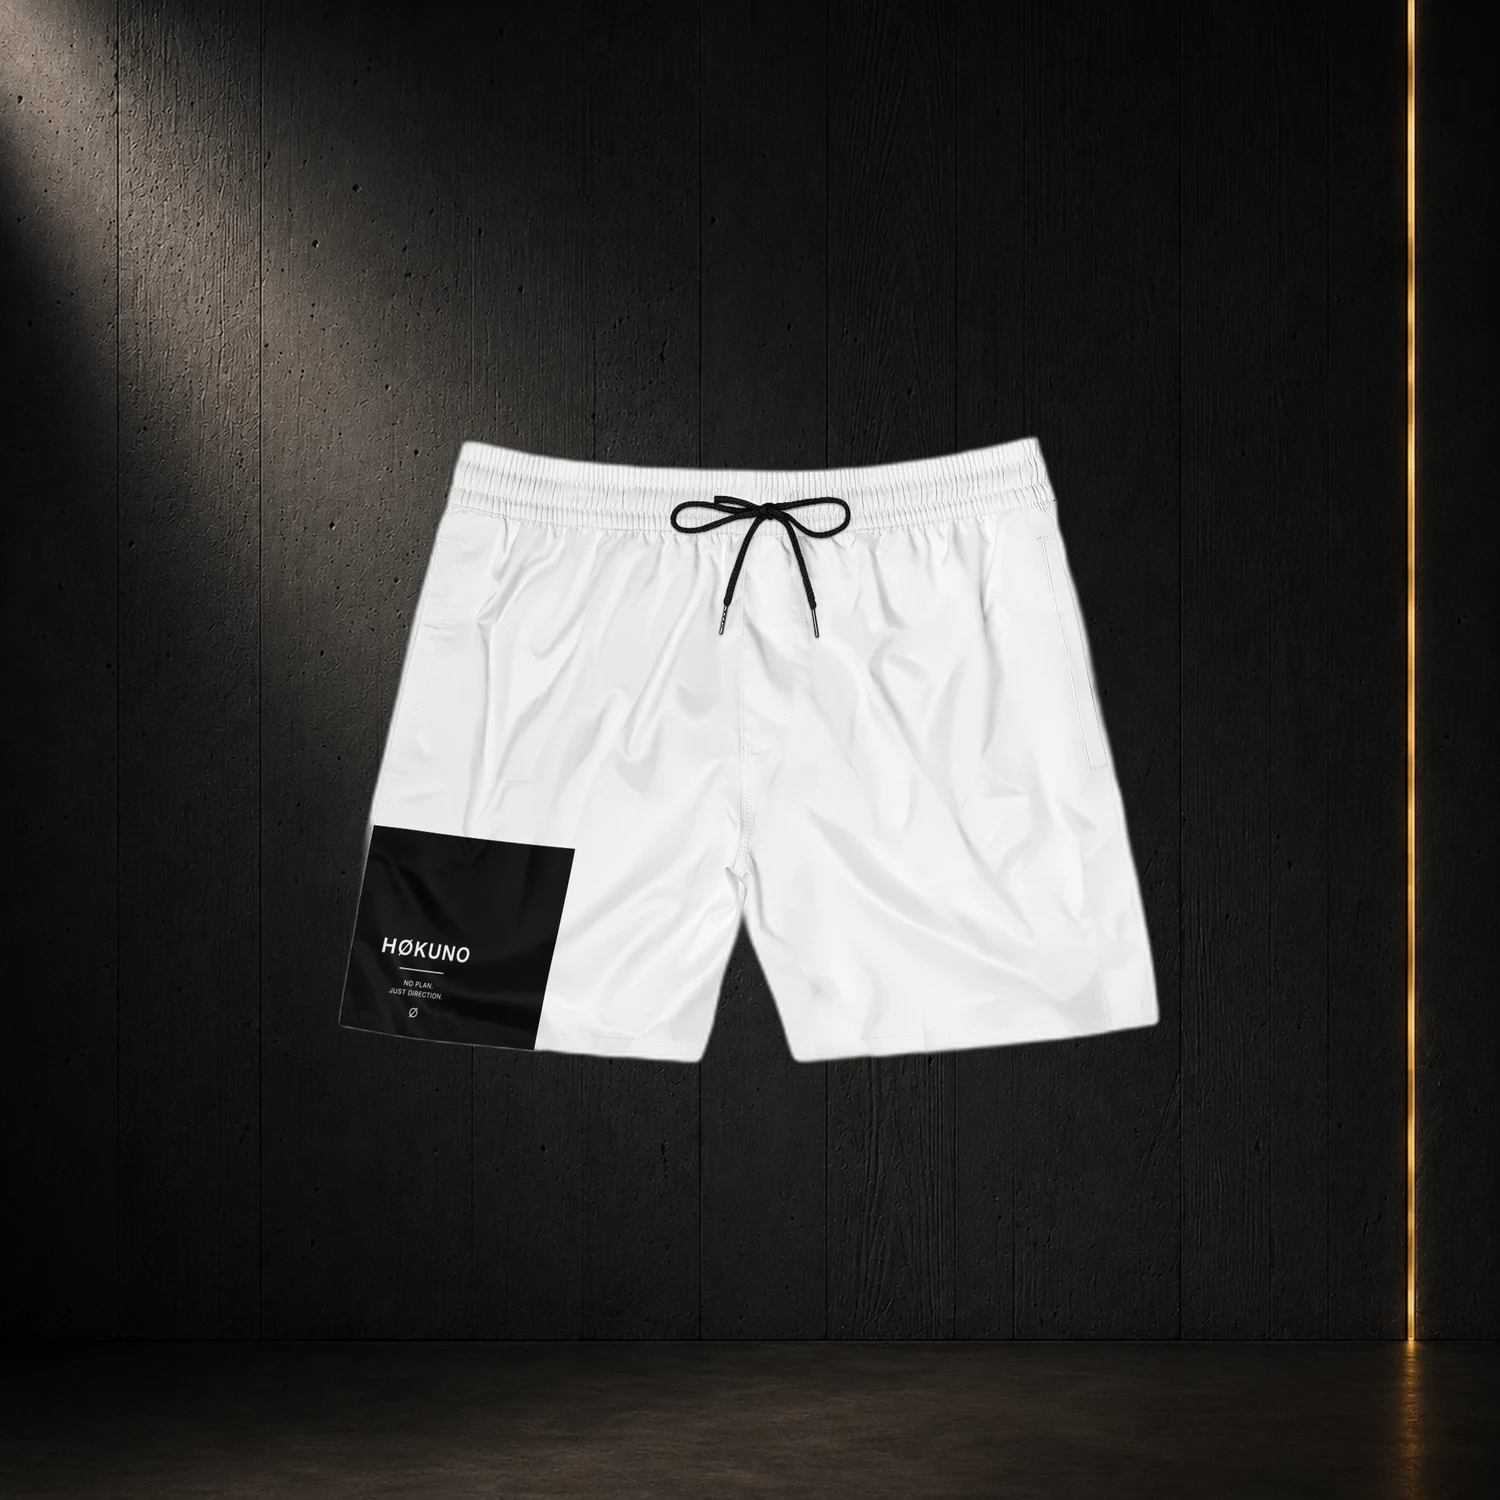
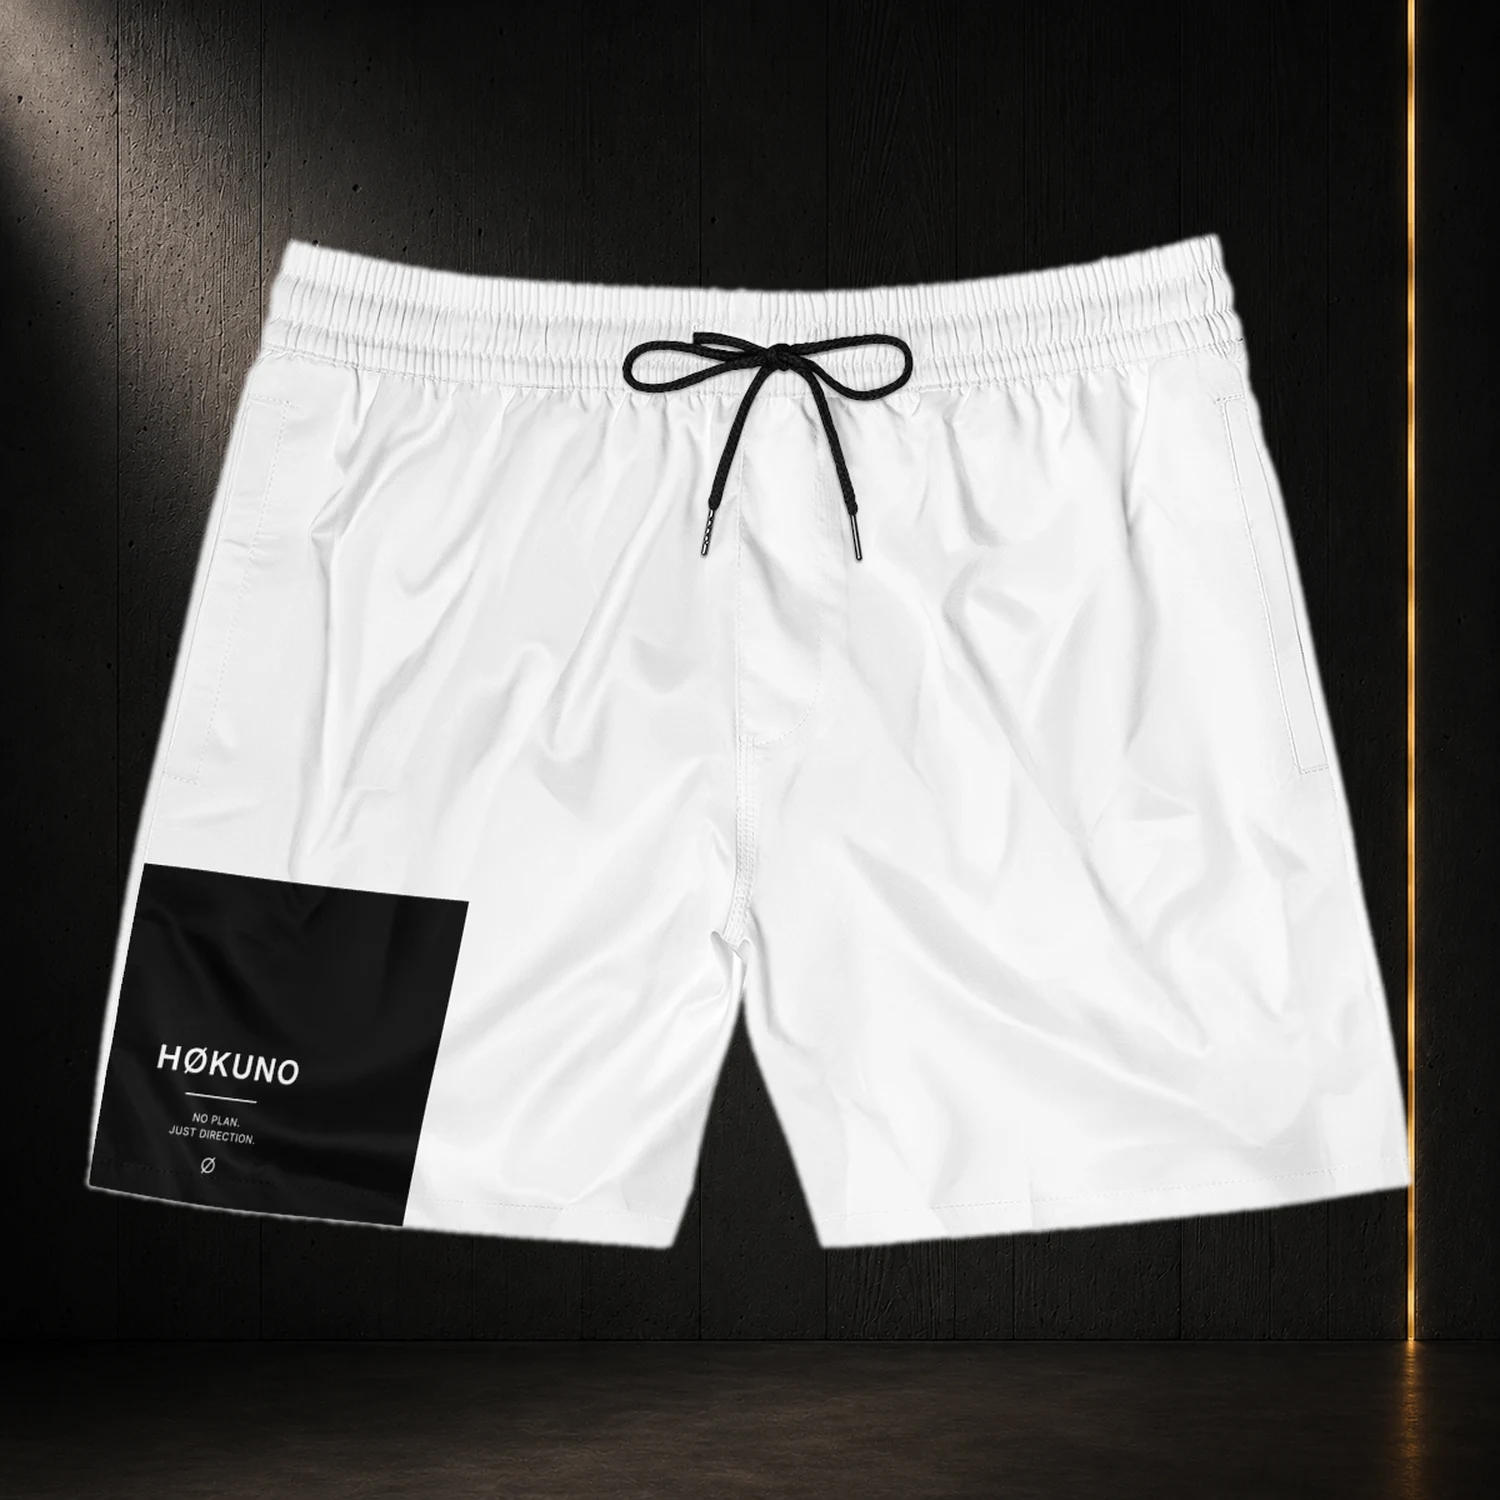
P1: piste RÉINDEXATION infirmée — toggle status DRAFT→ACTIVE ne débloque pas Sandji
sellableOnlineQuantity=9999 (Admin déclare Sandji vendable en ligne) mais
storefront sold-out. Tous champs d'index (status/templateSuffix/taxable/
requiresShipping/tracksInventory) == Lufi. productUpdate title + toggle status
ACTIVE→DRAFT→ACTIVE + republish → userErrors=[] mais cart/add toujours 422.
Toutes couches éliminées (Printify, inventaire, publication, réindex produit).
Pistes restantes : attendre (async?), support Shopify, sync FS Printify.

Changed region(s): [[0.0307, 0.1533, 0.9507, 0.8587], [0.1227, 0.6747, 0.2147, 0.7667], [0.3373, 0.46, 0.368, 0.4907]]

diff --git a/scripts/mockup-pipeline/compositing.py b/scripts/mockup-pipeline/compositing.py
@@ -1,11 +1,16 @@
 """Compose a detoured product onto its collection background.
 
-Two strategies:
+Three strategies:
 - compose(): rembg-style — detoured PNG over bg, resized to relative width.
   Works well for dark/colored garments where rembg can isolate the subject.
 - compose_light(): bg-replacement — keeps the original mockup pixels intact and
   only replaces near-white pixels CONNECTED TO IMAGE BORDERS with the collection
   bg. Critical for light/white garments where rembg eats the cotton along with the bg.
+- compose_strict_bg_only(): like compose_light but with a much stricter
+  white threshold (R>252 & G>252 & B>252) and a narrow 2-px feather. Designed
+  for shorts/maillots/claquettes whose Printify mockups now ship with real
+  colors — the subject must stay 100% intact and only the pure-white studio
+  backdrop gets replaced.
 """
 import io
 from pathlib import Path
@@ -39,6 +44,53 @@ def compose(
     bg_rgba = bg.convert("RGBA")
     bg_rgba.alpha_composite(resized, dest=(x, y))
     final = bg_rgba.convert("RGB")
+
+    output_path.parent.mkdir(parents=True, exist_ok=True)
+    final.save(output_path, "WEBP", quality=config.WEBP_QUALITY, method=6)
+    return output_path
+
+
+def compose_strict_bg_only(
+    mockup_bytes: bytes,
+    bg_path: Path,
+    output_path: Path,
+    threshold: int = 253,
+    blur_radius: int = 2,
+) -> Path:
+    """Replace ONLY the pure-white studio backdrop with the collection bg.
+
+    Use for products that already carry their real colors in the Printify
+    mockup (shorts, maillots, claquettes after user-side color fix). The
+    threshold is intentionally strict (>=253) so any printed color, fabric
+    fold, shadow, or strap stays untouched. Only background-connected pixels
+    are swapped — enclosed white inside the product (e.g. drawstring eyelets)
+    is preserved.
+    """
+    mockup = Image.open(io.BytesIO(mockup_bytes)).convert("RGB")
+    mockup = mockup.resize(config.FINAL_SIZE, Image.LANCZOS)
+    bg = Image.open(bg_path).convert("RGB").resize(config.FINAL_SIZE, Image.LANCZOS)
+
+    arr = np.array(mockup)
+    r, g, b = arr[..., 0], arr[..., 1], arr[..., 2]
+    near_white = (r >= threshold) & (g >= threshold) & (b >= threshold)
+
+    labels, _ = ndimage.label(near_white)
+    border_ids: set[int] = set()
+    border_ids.update(labels[0, :].tolist())
+    border_ids.update(labels[-1, :].tolist())
+    border_ids.update(labels[:, 0].tolist())
+    border_ids.update(labels[:, -1].tolist())
+    border_ids.discard(0)
+    bg_mask = np.isin(labels, list(border_ids))
+
+    mask_img = Image.fromarray((bg_mask * 255).astype(np.uint8))
+    mask_img = mask_img.filter(ImageFilter.GaussianBlur(radius=blur_radius))
+    mask = (np.array(mask_img).astype(np.float32) / 255.0)[..., None]
+
+    mockup_arr = arr.astype(np.float32)
+    bg_arr = np.array(bg).astype(np.float32)
+    result = mockup_arr * (1 - mask) + bg_arr * mask
+    final = Image.fromarray(result.clip(0, 255).astype(np.uint8))
 
     output_path.parent.mkdir(parents=True, exist_ok=True)
     final.save(output_path, "WEBP", quality=config.WEBP_QUALITY, method=6)

diff --git a/scripts/mockup-pipeline/08_character_map.py b/scripts/mockup-pipeline/08_character_map.py
@@ -482,6 +482,27 @@ def build_design_hokuno_block(products: list[dict]) -> dict:
         all_items_in_cat = [it for bk in buckets.values() for it in bk]
         cat_image = _dh_pick_category_image(cat, all_items_in_cat)
 
+        # SHORT category is flat: shorts/maillots all share the same silhouette
+        # and don't really split along Dark/Light. Niveau 1 click → product grid.
+        if cat == "short":
+            flat_items = sorted(
+                all_items_in_cat,
+                key=lambda x: (x["bucket_slug"] != "hokuno",
+                               not x["dark"], x["title"]),
+            )
+            out["types"][cat] = {
+                "label":        DH_CATEGORY_LABEL[cat],
+                "slug":         cat,
+                "image_handle": cat_image,
+                "flat":         True,
+                "items": [
+                    {"handle": it["handle"], "title": it["title"],
+                     "price": it["price"], "dark": it["dark"]}
+                    for it in flat_items
+                ],
+            }
+            continue
+
         buckets_out: dict = {}
         sorted_bucket_slugs = sorted(
             buckets.keys(),
@@ -679,13 +700,16 @@ def run() -> int:
     for col, payload in char_map.items():
         if payload.get("type_navigation"):
             n_types = len(payload.get("types") or {})
-            n_items = sum(
-                len(bk.get("items") or [])
-                for t in payload["types"].values()
-                for ds in t["designs"].values()
-                for grp_key in ("dark", "light")
-                for bk in [ds.get(grp_key)] if bk
-            )
+            n_items = 0
+            for t in payload["types"].values():
+                if t.get("flat"):
+                    n_items += len(t.get("items") or [])
+                else:
+                    for ds in t.get("designs", {}).values():
+                        for grp_key in ("dark", "light"):
+                            bk = ds.get(grp_key)
+                            if bk:
+                                n_items += len(bk.get("items") or [])
             type_labels = ", ".join(payload["types"][c]["label"] for c in payload["type_order"])
             print(f"  {col:<14} types={n_types:>3}  items={n_items:>3}  [{type_labels}]  type_navigation=True")
         else:
@@ -711,7 +735,10 @@ def run() -> int:
             for cat in payload["type_order"]:
                 t = payload["types"][cat]
                 print(f"  [{cat}] {t['label']}  image={t['image_handle']}")
-                for ds_slug, ds in t["designs"].items():
+                if t.get("flat"):
+                    print(f"      └─ FLAT  items={len(t.get('items') or [])}")
+                    continue
+                for ds_slug, ds in t.get("designs", {}).items():
                     n_dark = len((ds.get("dark") or {}).get("items") or [])
                     n_light = len((ds.get("light") or {}).get("items") or [])
                     print(f"      └─ {ds_slug:<12} {ds['name']:<14} dark={n_dark} light={n_light}")

diff --git a/EXPLOITATION.md b/EXPLOITATION.md
@@ -180,3 +180,22 @@
   2. Tester un autre déclencheur de recalcul : toggle `tracked` OFF→ON, ou `productSet`/re-save complet du produit.
   3. Creuser la **sync inventaire fulfillment-service Printify→Shopify** (cohérent avec I9 : Printify "pousse zéro inventaire") — c'est peut-être l'événement FS que Shopify attend pour indexer `available`, jamais émis pour ces 132.
   4. En dernier recours : **support Shopify** (incohérence Admin `availableForSale=True` vs storefront sold-out, données identiques à un produit achetable).
+
+### 2026-06-04 (nuit, suite 4) — Piste RÉINDEXATION infirmée aussi (toggle status inclus)
+- 🎯 Objectif : forcer une réindexation produit storefront, hors couche inventaire (déjà éliminée).
+- 🔬 **Comparaison Admin élargie Sandji(KO) vs Lufi(OK)** sur les champs que le storefront utilise pour l'index dispo :
+  - `status=ACTIVE`, `templateSuffix=None`, `hasOnlyDefaultVariant=False`, `tracksInventory=True` → identiques.
+  - Par variante : `taxable=True`, `requiresShipping=True`, **`sellableOnlineQuantity=9999`** → identiques. **Shopify déclare donc lui-même Sandji "vendable en ligne" (9999/variante), mais le storefront le rend sold-out.**
+  - `totalInventory` : Sandji 199 980 (20×9999) vs Lufi 79 992 (8×9999) — diffère **seulement** par le nb de variantes, pas un différenciateur.
+- 🧪 **Forçage réindex (write_products, Sandji seul)** :
+  - `productUpdate(title=même valeur)` → userErrors=[], updatedAt bumpé.
+  - **toggle `status` ACTIVE→DRAFT→ACTIVE** (déclencheur réindex le plus fort) → userErrors=[], status final ACTIVE.
+  - `publishablePublish` Online Store → userErrors=[], `publishedOnPublication=true`.
+  - Attente 120s → `.js available=False`, **`/cart/add.js` = 422**. **INCHANGÉ.**
+- ❌ **VERDICT : la réindexation produit (title bump + toggle status + republish) NE débloque PAS.** Piste réindexation **infirmée**.
+- 📌 **Bilan des couches toutes éliminées** : Printify (sain), inventaire Shopify (9999/tracked/CONTINUE/event), publication (publié), réindexation produit (toggle status). Le storefront sert un `available=False` "collant" déconnecté de toutes ces données.
+- 🔜 **Prochaines actions recommandées** :
+  1. **Re-tester Sandji dans quelques heures** (réindex storefront possiblement async lente — non confirmé).
+  2. **Support Shopify** = piste la plus sérieuse : fournir le contraste `sellableOnlineQuantity=9999` (Admin) vs storefront sold-out, données strictement identiques à un produit achetable (Lufi).
+  3. Explorer la **sync fulfillment-service Printify→Shopify** (l'événement FS de stock n'a peut-être jamais été émis pour ces 132 ; cf. I9).
+- 🚫 Batch des 131 toujours NON lancé. Sandji laissé ACTIVE + publié (aucun dégât).
